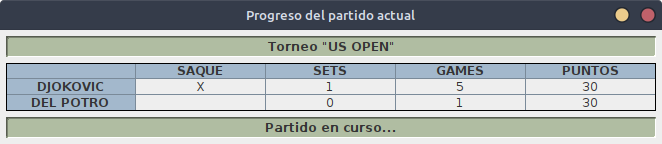
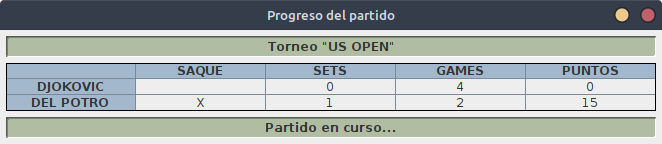
general maintenance

diff --git a/src/main/java/duxtennis/models/Match.java b/src/main/java/duxtennis/models/Match.java
@@ -14,6 +14,8 @@ public class Match {
 
   // ---------------------------------------- Private fields ------------------------------------
 
+  private boolean deuce;
+
   private int setsAmount;
 
   private String tournamentName;
@@ -40,6 +42,7 @@ public class Match {
 
     setTournamentName(tournamentName);
     setMatchSetsAmount(setsAmount);
+    setDeuce(false);
   }
 
   // ---------------------------------------- Public methods ------------------------------------
@@ -54,6 +57,15 @@ public class Match {
   }
 
   // ---------------------------------------- Getters -------------------------------------------
+
+  /**
+   * Returns whether the match is in deuce or not.
+   *
+   * @return Whether the match is in deuce or not.
+   */
+  public boolean deuce() {
+    return deuce;
+  }
 
   /**
    * Gets the match sets amount.
@@ -92,6 +104,15 @@ public class Match {
   }
 
   // ---------------------------------------- Setters -------------------------------------------
+
+  /**
+   * Updates the deuce flag.
+   *
+   * @param deuce The deuce flag new state.
+   */
+  private void setDeuce(boolean deuce) {
+    this.deuce = deuce;
+  }
 
   /**
    * Updates the tournament name.

diff --git a/src/main/java/duxtennis/Main.java b/src/main/java/duxtennis/Main.java
@@ -102,16 +102,16 @@ public final class Main {
                                   JOptionPane.ERROR_MESSAGE, null);
   }
 
-  // ---------------------------------------- Getters -------------------------------------------
-
   /**
-  * Triggers the match simulation.
-  */
+   * Triggers the match simulation.
+   */
   public static void simulateMatch() {
     MatchSimulator matchSimulator = new MatchSimulator(Main.getMatch());
 
     matchSimulator.simulate();
   }
+
+  // ---------------------------------------- Getters -------------------------------------------
 
   /**
    * Gets the corresponding controller to the requested view.

diff --git a/src/main/java/duxtennis/views/CurrentMatchView.java b/src/main/java/duxtennis/views/CurrentMatchView.java
@@ -27,7 +27,7 @@ public class CurrentMatchView extends View {
   private static final int TABLE_COLUMNS = 5;
   private static final int TABLE_ROWS = 3;
 
-  private static final String FRAME_TITLE = "Progreso del partido actual";
+  private static final String FRAME_TITLE = "Progreso del partido";
 
   private static final String[] TABLE_TITLES = {
     "SAQUE", "SETS", "GAMES", "PUNTOS"
